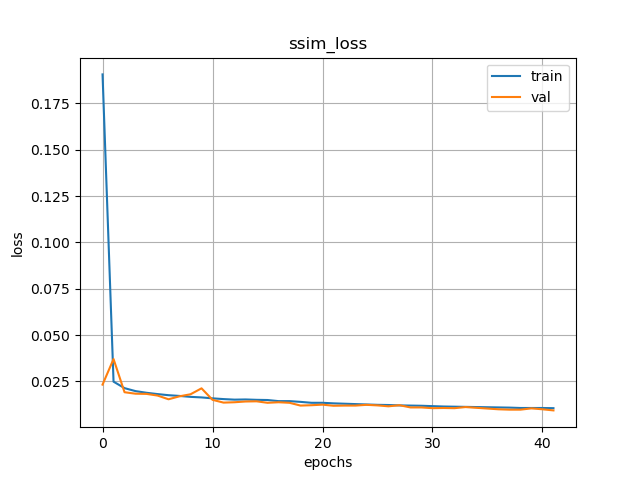
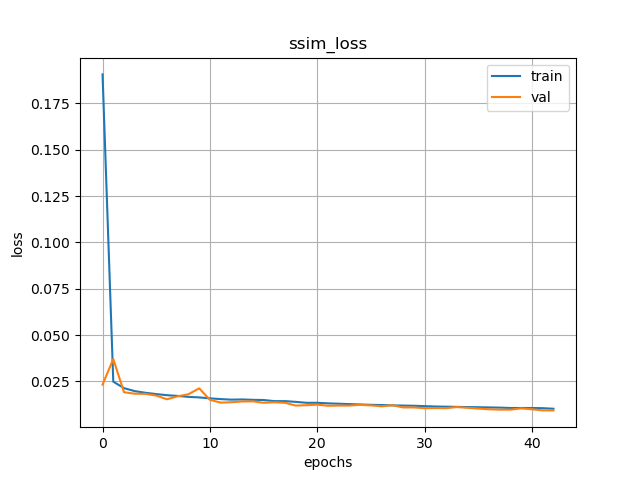
no comment

diff --git a/train.py b/train.py
@@ -133,7 +133,7 @@ def train(model , loaders, optimizer, criterion, args):
 
 
 def main(args):
-    train_data = Pic_to_Pic_dataset(args.random_csv, mode='train')
+    train_data = Pic_to_Pic_dataset(args.train_csv, mode='train')
     val_data = Pic_to_Pic_dataset(args.val_csv, mode='val')
     test_data = Pic_to_Pic_dataset(args.test_csv, mode='test')
 
@@ -196,8 +196,7 @@ if __name__ == '__main__':
     parser.add_argument('-bs', '--batch_size', type=int, default=32)
     parser.add_argument('--lr', type=float, default=1e-3)
     parser.add_argument('-es', '--early_stop', type=int, default=6) 
-    parser.add_argument('-rc', '--random_csv', type=str, default='../../qml-data/csv_files/whole_99_org.csv') 
-    parser.add_argument('-trc', '--train_csv', type=str, default='../../qml-data/csv_files/whole_99_org.csv') 
+    parser.add_argument('-trc', '--train_csv', type=str, default='../../qml-data/csv_files/train_75_org.csv') 
     parser.add_argument('-vc', '--val_csv', type=str, default='../../qml-data/csv_files/val_10_org.csv') 
     parser.add_argument('-tc', '--test_csv', type=str, default='../../qml-data/csv_files/test_14_org.csv') 
     parser.add_argument('-ic', '--in_ch', type=int, default=1)
